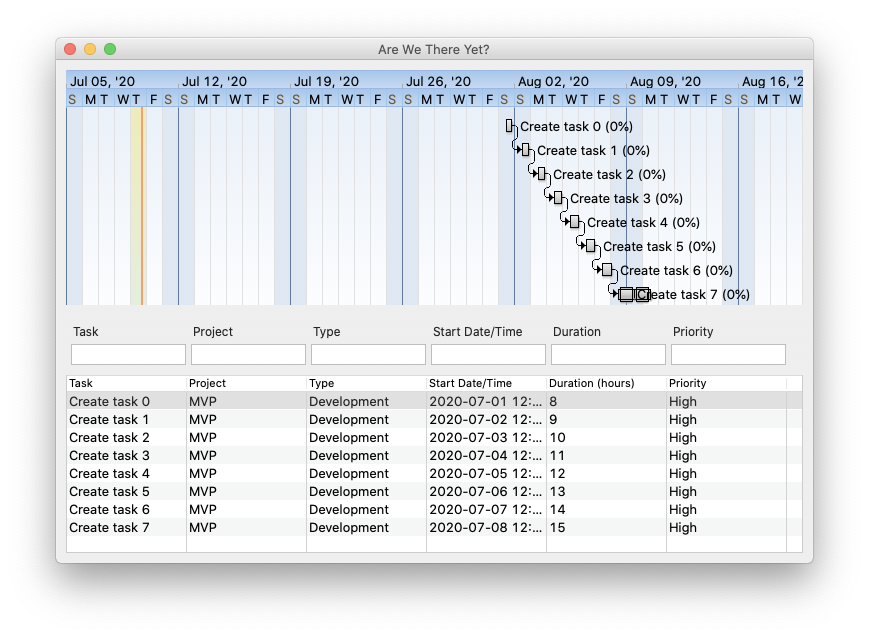
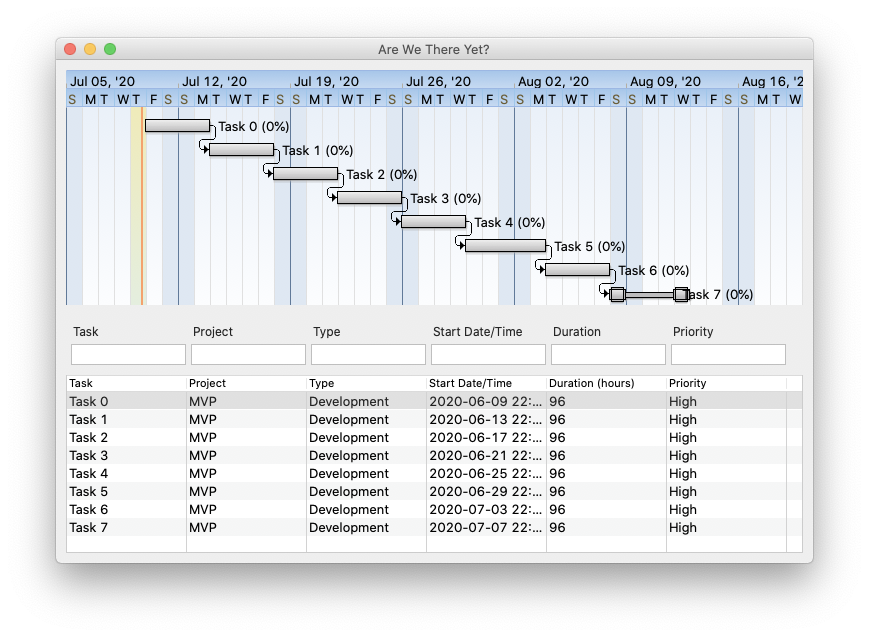
Updated Screenshot/default data

diff --git a/db/migrate/create_tasks.rb b/db/migrate/create_tasks.rb
@@ -20,10 +20,10 @@ class CreateTasks < ActiveRecord::Migration[5.2]
       AreWeThereYet::Task.create!(
         project_name: 'MVP',
         position:     n,
-        name:         "Create task #{n}",
+        name:         "Task #{n}",
         task_type:    'Development',
-        start_at:     "2020-07-0#{n+1} 12:47:38",
-        duration:     n+8,
+        start_at:     (Time.now - 30*24*60*60) + n*4*24*60*60,
+        duration:     4*24,
         priority:     'High',
         finished:     false,
       )

diff --git a/app/views/are_we_there_yet/gantt_chart_settings.rb b/app/views/are_we_there_yet/gantt_chart_settings.rb
@@ -5,7 +5,7 @@ class AreWeThereYet
   class GanttChartSettings < AbstractSettings
     # TODO expose as preferences
 #     def getInitialZoomLevel
-#       ISettings.ZOOM_HOURS_NORMAL
+#       ISettings.ZOOM_DAY_NORMAL
 #     end
   end
 end
